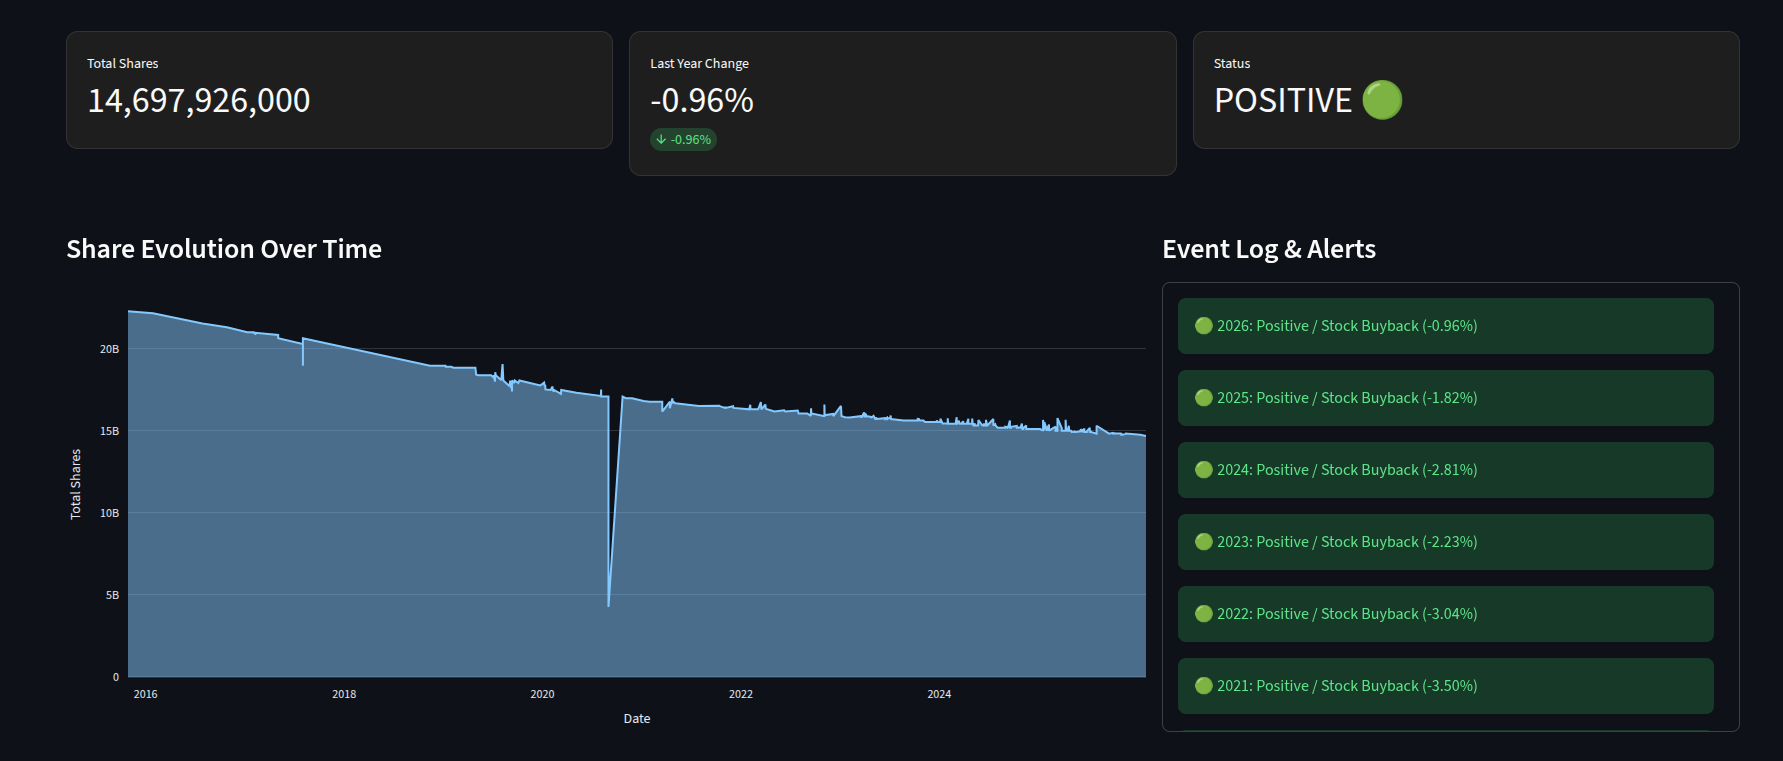
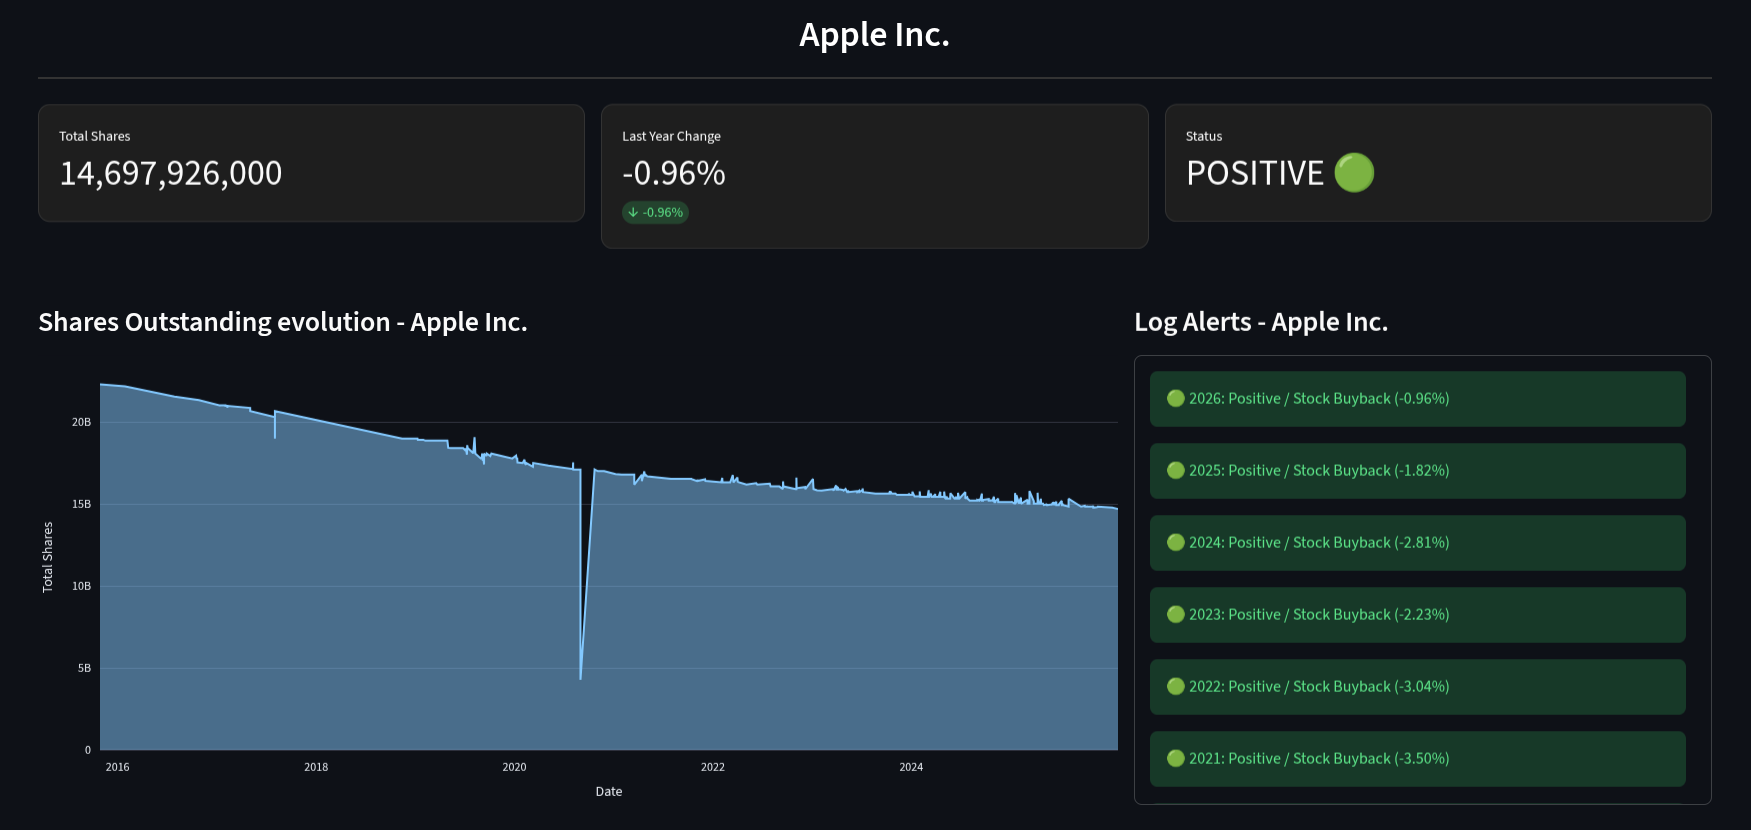
Added company's name after research - modified chart_title and alert_title in translation.py - modified README.md (screen2.png)

diff --git a/src/translations.py b/src/translations.py
@@ -17,8 +17,8 @@ LANGUAGES = {
         "kpi_shares": "Total Shares",
         "kpi_change": "Last Year Change",
         "kpi_status": "Status",
-        "chart_title": "Share Evolution Over Time",
-        "alert_title": "Event Log & Alerts",
+        "chart_title": "Shares Outstanding evolution",
+        "alert_title": "Log Alerts",
         "footer_disclaimer": "⚠ DISCLAIMER: The information provided is for informational purposes only and does not constitute financial advice. The author assumes no responsibility for decisions based on this data.",
         "donate_title": "Support Dilution Eye",
         "donate_sub": "Click the address to copy and donate Bitcoin",
@@ -41,8 +41,8 @@ LANGUAGES = {
         "kpi_shares": "Azioni Totali",
         "kpi_change": "Var. Ultimo Anno",
         "kpi_status": "Stato",
-        "chart_title": "Evoluzione Azionaria nel Tempo",
-        "alert_title": "Log Eventi e Alert",
+        "chart_title": "Evoluzione del numero di azioni",
+        "alert_title": "Log Alert",
         "footer_disclaimer": "⚠ DISCLAIMER: Le informazioni fornite hanno scopo puramente informativo e non costituiscono consigli finanziari. L'autore non si assume responsabilità per decisioni basate su questi dati.",
         "donate_title": "Supporta Dilution Eye",
         "donate_sub": "Clicca sull'indirizzo per copiare e donare in Bitcoin",
@@ -65,8 +65,8 @@ LANGUAGES = {
         "kpi_shares": "Acciones Totales",
         "kpi_change": "Var. Último Año",
         "kpi_status": "Estado",
-        "chart_title": "Evolución de las Acciones en el Tiempo",
-        "alert_title": "Registro de Eventos y Alertas",
+        "chart_title": "Evolución del número de acciones",
+        "alert_title": "Registro Alertas",
         "footer_disclaimer": "⚠ DESCARGO DE RESPONSABILIDAD: La información proporcionada es solo para fines informativos y no constituye asesoramiento financiero. El autor no asume responsabilidad por las decisiones basadas en estos datos.",
         "donate_title": "Apoya a Dilution Eye",
         "donate_sub": "Haga clic en la dirección para copiar y donar en Bitcoin",
@@ -89,8 +89,8 @@ LANGUAGES = {
         "kpi_shares": "Actions Totales",
         "kpi_change": "Var. Dernière Année",
         "kpi_status": "État",
-        "chart_title": "Évolution de l'actionnariat au fil du temps",
-        "alert_title": "Journal des événements et alertes",
+        "chart_title": "Évolution du nombre d'actions",
+        "alert_title": "Journal alertes",
         "footer_disclaimer": "⚠ CLAUSE DE NON-RESPONSABILITÉ : Les informations fournies le sont à titre informatif uniquement et ne constituent pas un conseil financier. L'auteur n'assume aucune responsabilité pour les décisions basées sur ces données.",
         "donate_title": "Soutenir Dilution Eye",
         "donate_sub": "Cliquez sur l'adresse pour copier et faire un don en Bitcoin",

diff --git a/src/app.py b/src/app.py
@@ -173,6 +173,19 @@ if btn:
             
             # let's try downloading data
             if detector.fetch_and_normalize_shares() and detector.calculate_dilution_metrics():
+                
+                # get the company name
+                company_info = detector.ticker.info
+                company_name = company_info.get('longName') or company_info.get('shortName') or query.upper()
+                
+                # show company's name
+                st.markdown(f"""
+                    <h2 style='text-align: center; color: white; margin-bottom: 0;'>
+                        {company_name}
+                    </h2>
+                    """, unsafe_allow_html=True)
+                st.markdown("<hr style='margin-top: 5px; margin-bottom: 25px; border: 1px solid #333;'>",unsafe_allow_html=True)
+
                 # KPI (key performance indicator)
                 m1, m2, m3 = st.columns(3)
                 last_var = detector.yearly_dilution_pct.iloc[-1]
@@ -194,16 +207,16 @@ if btn:
 
                 st.write("###")
 
-                # slipt the page
+                # split the page
                 col_left, col_right = st.columns([0.65, 0.35])
                 
                 with col_left:
-                    st.subheader(texts["chart_title"])
-                    # In app.py, sostituisci la riga px.area con questa:
+                    st.subheader(f"{texts['chart_title']} - {company_name}")
+                    
                     fig = px.area(
                         x=detector.shares_data.index, 
                         y=detector.shares_data['Adjusted_Shares'],
-                        labels={'x': texts['date'], 'y': texts['kpi_shares']} # Usa la traduzione già pronta!
+                        labels={'x': texts['date'], 'y': texts['kpi_shares']}
                     )
                     
                     # chart
@@ -213,7 +226,7 @@ if btn:
                         dragmode=False
                     )
                     
-                    # chart
+                    #chart
                     st.plotly_chart(
                         fig, 
                         use_container_width=True,
@@ -224,7 +237,8 @@ if btn:
                     )
                     
                 with col_right:
-                    st.subheader(texts["alert_title"])
+                    st.subheader(f"{texts['alert_title']} - {company_name}")
+                    
                     with st.container(height=450):
                         for alert in detector.alerts[::-1]:
                             if "🚩" in alert or "🚨" in alert: st.error(alert)
